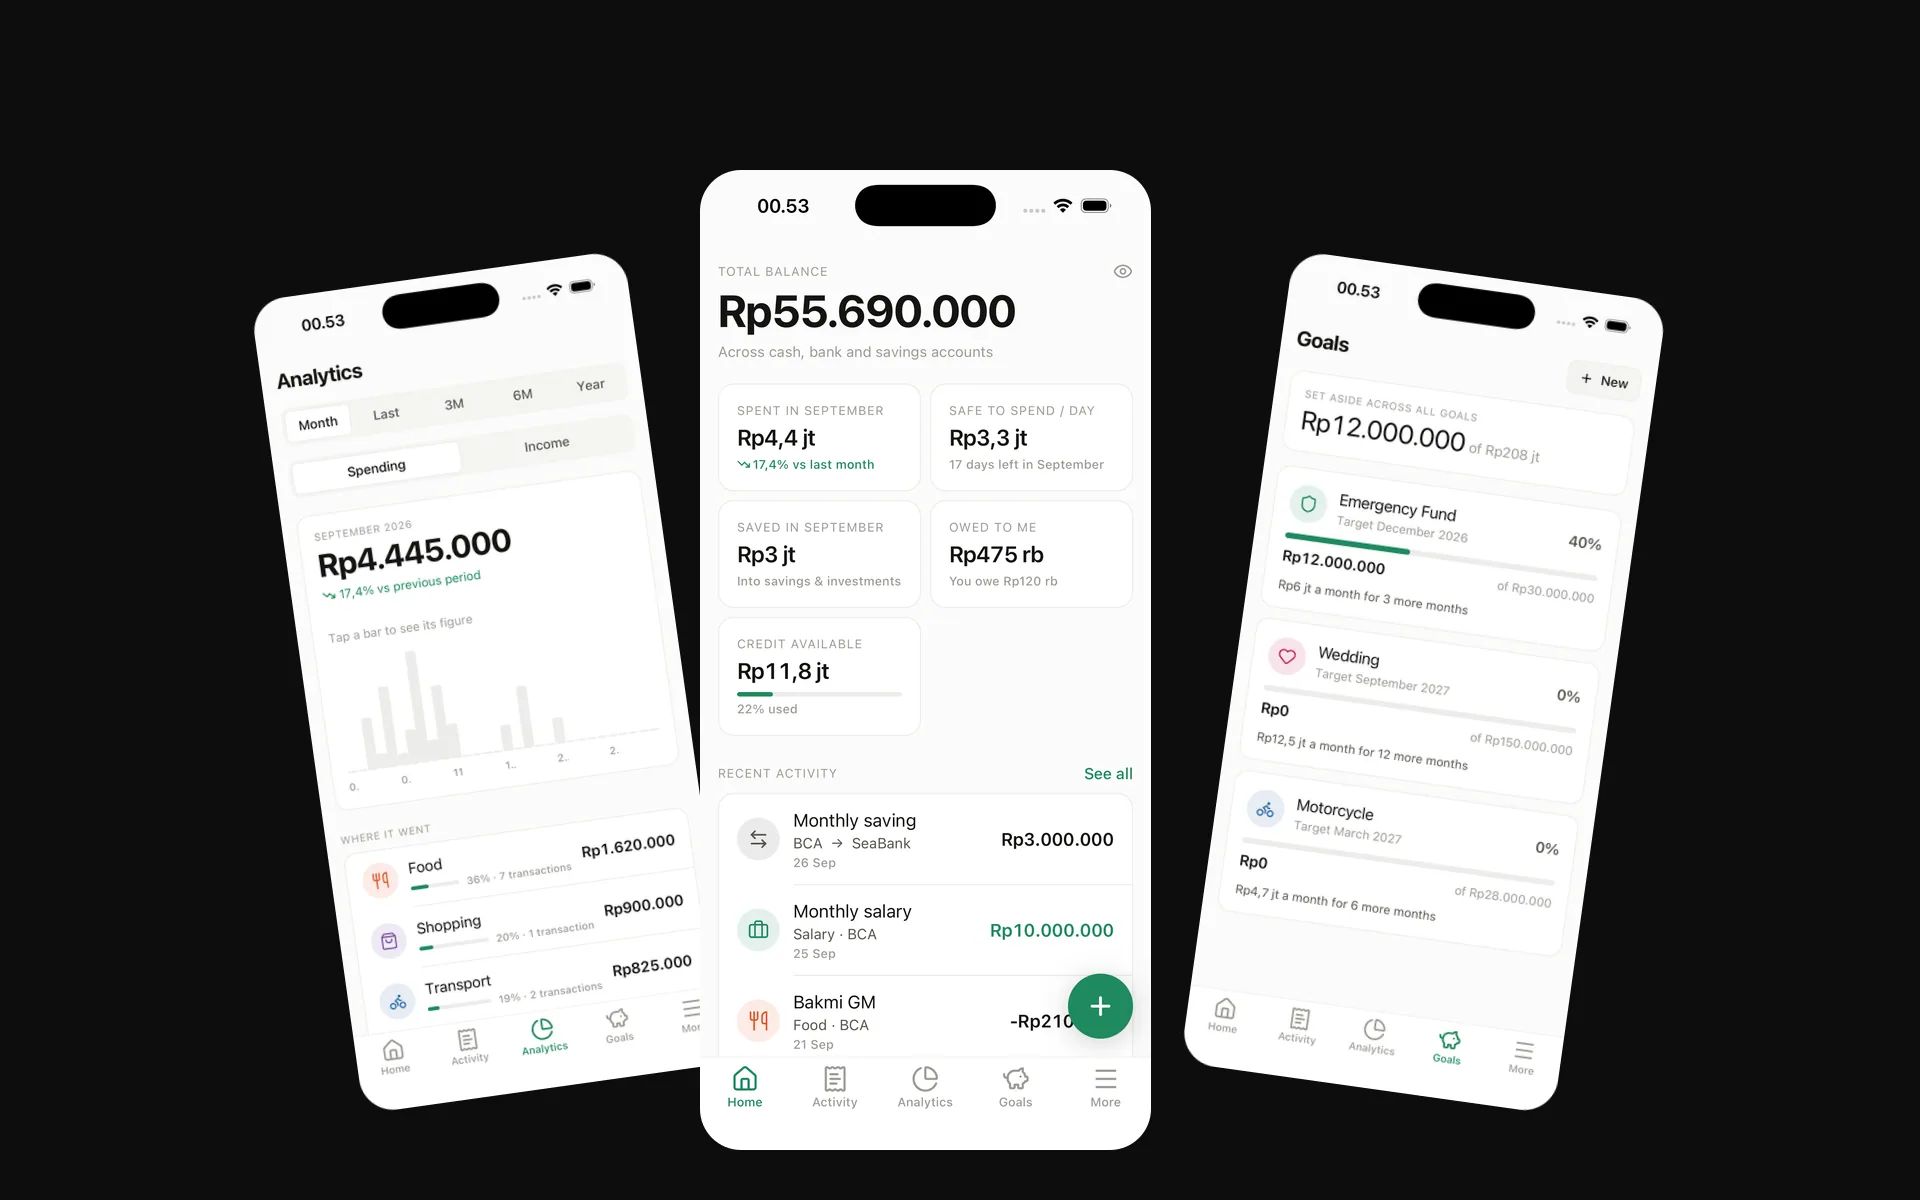
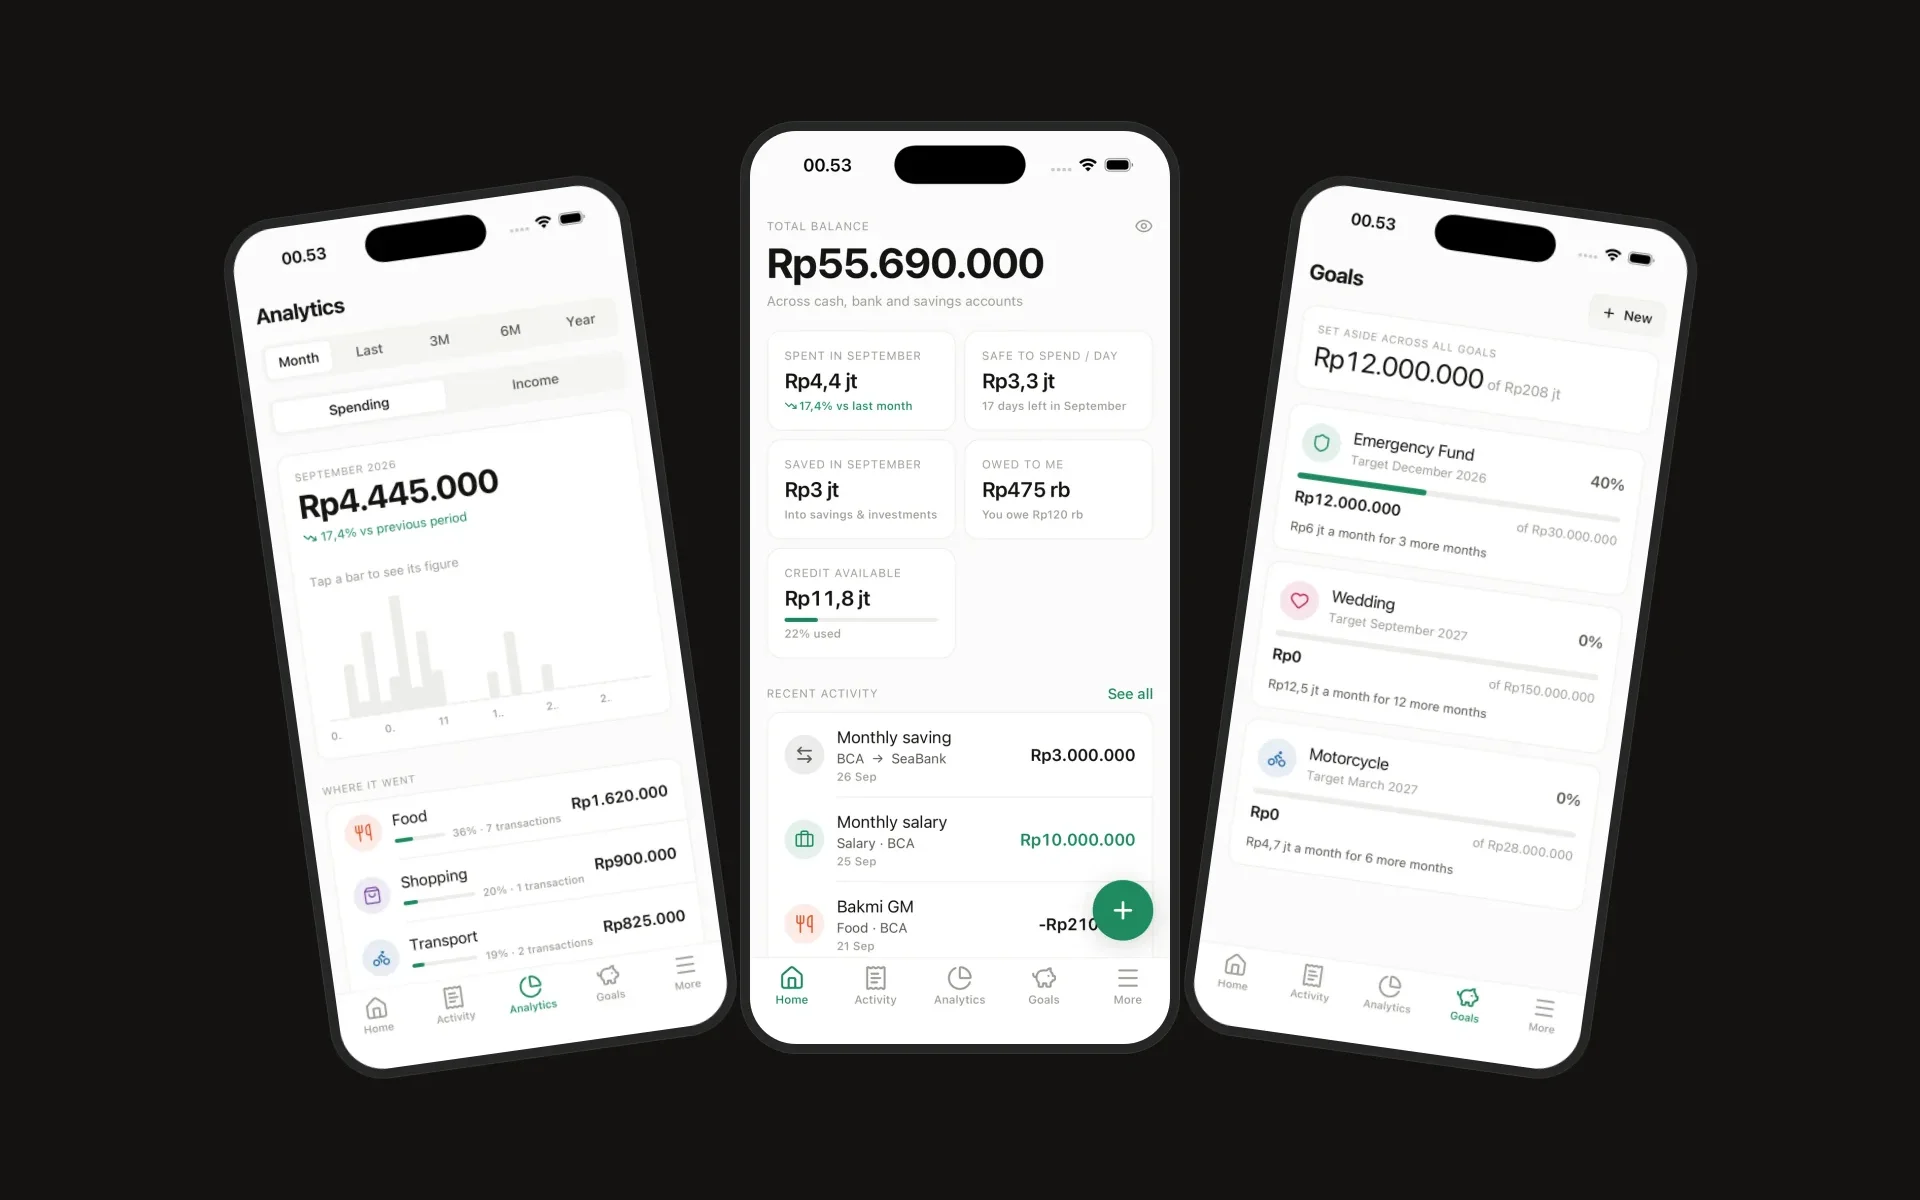
feat: add scripture feed case study and rebuild the neraca thumbnail

Changed region(s): [[0.0938, 0.0925, 0.9062, 0.9558], [0.75, 0.5858, 0.7812, 0.6167]]

diff --git a/constants/projects.tsx b/constants/projects.tsx
@@ -87,6 +87,20 @@ import pr8 from '@/public/projects/persekutuan-remaja/pr-8.webp'
 import pr9 from '@/public/projects/persekutuan-remaja/pr-9.webp'
 import prThumbnail from '@/public/projects/persekutuan-remaja/pr-thumbnail.webp'
 
+// Scripture Feed
+import scriptureFeed1 from '@/public/projects/scripture-feed/scripture-feed-1.webp'
+import scriptureFeed2 from '@/public/projects/scripture-feed/scripture-feed-2.webp'
+import scriptureFeed3 from '@/public/projects/scripture-feed/scripture-feed-3.webp'
+import scriptureFeed4 from '@/public/projects/scripture-feed/scripture-feed-4.webp'
+import scriptureFeed5 from '@/public/projects/scripture-feed/scripture-feed-5.webp'
+import scriptureFeed6 from '@/public/projects/scripture-feed/scripture-feed-6.webp'
+import scriptureFeed7 from '@/public/projects/scripture-feed/scripture-feed-7.webp'
+import scriptureFeed8 from '@/public/projects/scripture-feed/scripture-feed-8.webp'
+import scriptureFeed9 from '@/public/projects/scripture-feed/scripture-feed-9.webp'
+import scriptureFeed10 from '@/public/projects/scripture-feed/scripture-feed-10.webp'
+import scriptureFeed11 from '@/public/projects/scripture-feed/scripture-feed-11.webp'
+import scriptureFeedThumbnail from '@/public/projects/scripture-feed/scripture-feed-thumbnail.webp'
+
 import { Project } from '@/types/project'
 
 export const projects: Project[] = [
@@ -648,6 +662,142 @@ Worth being straight about: there is no test framework and no CI in this project
         content: `The commit history is a list of Sundays. Several messages are literally named for the service they were preparing.
 
 That is the part I would repeat. Nothing in this app was designed in the abstract and then tried out. Every feature exists because something went wrong in a room the week before, and the fix had to work by the following Sunday, in front of an audience, on a laptop with no internet.`,
+      },
+    ],
+  },
+  {
+    href: 'https://scripture-feed.vercel.app',
+    repo: '',
+    title: 'Scripture Feed',
+    category: 'personal',
+    description: `Scripture Feed is a Bible reader built on the swipe habit people already have. Open it and you are reading a passage straight away, every passage leads into its full chapter, plain-language notes explain what is going on when the text is hard to follow, and the feed ends instead of running forever.`,
+    thumbnail: scriptureFeedThumbnail,
+    mobileImages: [
+      scriptureFeed1,
+      scriptureFeed2,
+      scriptureFeed3,
+      scriptureFeed4,
+      scriptureFeed5,
+      scriptureFeed6,
+      scriptureFeed7,
+      scriptureFeed8,
+      scriptureFeed9,
+      scriptureFeed10,
+      scriptureFeed11,
+    ],
+    stack: ['Next.js', 'React 19', 'TypeScript', 'Tailwind CSS', 'PWA'],
+    slug: 'scripture-feed',
+    sections: [
+      {
+        id: 'the-habit-was-already-there',
+        title: 'The Habit Was Already There',
+        content: `For a long time I wanted to read the Bible and rarely did. I would open it with good intentions, read a few verses, and get lost. I did not always know who was speaking, what was going on, or why a passage mattered, and without that context it was easy to close it again.
+
+At the same time I had no trouble scrolling on my phone for an hour. The habit was already there. It just was not pointed at anything that fed me.
+
+So I built what I needed: something as easy to open as a feed, that puts Scripture on the screen before anything else, and that helps you understand what you are reading when it does not make sense yet. There is no sign up, no likes, no followers and no notifications. The app opens straight onto a passage.`,
+      },
+      {
+        id: 'a-feed-that-ends',
+        title: 'A Feed That Ends',
+        content: `Every feed I know is designed never to run out. This one runs out on purpose.
+
+There is no algorithm studying the reader. The feed is **118 passages picked by hand**, each chosen because it makes sense on its own, and the data file holds references only, never typed-in text. A theme on a card is only allowed to describe the verses actually shown.
+
+Each visit shuffles them with a small seeded random generator, so the order is reproducible for a given seed and the ordering logic can be tested and replaced without touching the UI. Passages that follow on from each other in the same chapter are grouped into runs before the shuffle, so a continuation never shows up without the part before it. A second pass swaps runs around so the same book does not appear twice in a row.
+
+Passages the reader has not finished yet always come first. "Finished" is not a scroll event: a card counts as read only after staying on screen for about 180ms per word, never less than four seconds, which is a reading pace rather than a skimming one. Nothing repeats until all 118 have been read, and the end of the feed says so when that happens.
+
+Every ten passages the feed stops for a pause card that says "Stay with one for a while" and offers the chapters the last few passages came from. After the last passage there is an end card instead of more content. The point of the app is to get someone into a whole chapter, and a feed that never ends would work against that.`,
+      },
+      {
+        id: 'every-passage-is-a-doorway',
+        title: 'Every Passage Is a Doorway',
+        content: `Every card has a **Read** button that opens the full chapter with the passage highlighted, so a verse always leads back into its context. All 1,189 chapters are statically generated at build time.
+
+The lightbulb on each card opens a sheet of notes written in plain language: what is happening around the passage, what it means, a short summary of the chapter, and an introduction to the book. The chapter page carries the same summary at the top and an "About the book" section.
+
+That is 118 passage notes, 1,189 chapter summaries and 66 book introductions, in English and in Indonesian. Writing them was the largest part of the project, so a script, \`check:content\`, fails if any feed passage is missing a note or any chapter is missing a summary in either language. The notes are framed as a starting point, not the final word, and the About page says so.`,
+      },
+      {
+        id: 'one-gesture-one-card',
+        title: 'One Gesture, One Card',
+        content: `The feed is CSS scroll snap underneath, but snap alone never quite felt right on every input, so each one is handled on its own.
+
+On a phone, a short, clear swipe moves to the next card even when native snapping would have bounced back. Moving between cards does not use the browser's smooth scroll, which eases in slowly. A small per-frame glide starts moving at once and settles gently, with snapping switched off while it runs so the two do not fight.
+
+A trackpad is the hard case. One flick produces a long tail of momentum events, and if every event counts, one gesture skips five cards. The feed locks after the first card move and ignores the tail. The difficulty is telling that tail apart from a real second flick. Momentum only fades and never reverses, but the browser can merge events so a single one arrives at double speed. So only a reversal, or a jump to three times the slowest recent event after the speed has faded, counts as a new gesture. A long passage that scrolls inside its own card keeps the wheel until its text is used up, and a few pixels of overflow are treated as padding, not more text.
+
+Passage text is sized to fit. Each card picks a size tier from an estimate of its line count, and then a loop scales the type down until it stops overflowing, with a floor of 16.5px so the text never becomes too small to read comfortably.`,
+      },
+      {
+        id: 'text-i-am-allowed-to-show',
+        title: 'Text I Am Allowed to Show',
+        content: `Bible translations are mostly copyrighted, and that shaped the architecture more than anything else.
+
+The World English Bible, the Berean Standard Bible and the King James Version are public domain, so they are bundled as JSON and built into the site. **Alkitab Yang Terbuka**, the Indonesian version, is licensed for non-commercial use only, which is written into the README so it cannot be forgotten.
+
+The **NIV and NIrV** come from API.Bible under a license with conditions. Their text is fetched per chapter on the server, cached for a day, and never built into the site, so a build never calls the API and the sitemap leaves those pages out. Every view is reported back through the publisher's tracking API, as the license requires, and Biblica's copyright notice appears in the reader, the version menu and the About page. When the feed pool is built from a licensed version, chapters are fetched six at a time so a cold cache does not burst past the rate limit.
+
+Versions I cannot show at all, like the ESV, NLT, NKJV and the Indonesian TB, open the same passage on YouVersion instead.
+
+The WEB source keeps its paragraph and poetry structure, so every other bundled version is poured into that layout verse by verse. Any verse that does not fit the structure is slotted in after its nearest neighbour. And only one file, \`bible-source.ts\`, is allowed to read Bible text at all, so the feed, the reader and search never know where the words come from.`,
+      },
+      {
+        id: 'two-languages',
+        title: 'Two Languages, Following the Version',
+        content: `The app is in English and Indonesian, and the language always follows the chosen Bible version. Pick the AYT and the whole interface switches to Indonesian, including book names in references. Pick an English version and it switches back. The language and the version can never disagree.
+
+The version choice lives on the device, but server pages need to know the language too, so it is mirrored into a single cookie. That keeps the feed and every chapter page statically generated instead of rendering per request.
+
+Search had to learn a bit of Indonesian grammar. Indonesian builds words with prefixes, and the me- and pe- prefixes swallow the first letter of the root: "kasih" becomes "mengasihi", "tolong" becomes "menolong". A plain substring search for "kasih" misses half the verses that talk about love, so for Indonesian versions each search term also matches its prefixed forms. Search also reads references typed the way people actually type them, like "jn 3 16", "Rom" or "Yohanes 3:16", and opens the chapter directly.`,
+      },
+      {
+        id: 'screenshots',
+        title: 'Screenshots',
+        content: `The welcome dialog, a passage in the feed, the notes sheet, the version menu, a pause card after ten passages, a chapter with the passage highlighted, search, a book page with a summary of every chapter, the same passage in Indonesian with its notes, and dark mode.`,
+        images: [
+          scriptureFeed1,
+          scriptureFeed2,
+          scriptureFeed3,
+          scriptureFeed4,
+          scriptureFeed5,
+          scriptureFeed6,
+          scriptureFeed7,
+          scriptureFeed8,
+          scriptureFeed9,
+          scriptureFeed10,
+          scriptureFeed11,
+        ],
+        imageLayout: 'mobile',
+      },
+      {
+        id: 'an-app-without-a-store',
+        title: 'An App Without a Store',
+        content: `Scripture Feed is a Progressive Web App rather than a native one. A page walks people through adding it to the home screen on iPhone and Android, with a one-tap install button where the browser supports it, and once installed it opens full screen with long-press shortcuts to search, saved passages and the book list.
+
+The service worker is network first for pages, so every deploy shows up immediately, while keeping recent pages for offline reading. Build assets are cache first.
+
+There are no accounts. Saved passages, highlights, reading progress and the chosen version all live in the browser, behind a small storage layer with an in-memory fallback for private browsing, where storage can throw. Analytics are anonymous and cookie-free, and the About page says exactly what is counted.
+
+Motion is a written rule in the project: anything that appears, disappears or changes state animates in and out, including dialogs, sheets, toasts and removed list items, and bottom sheets can be dragged down to close.`,
+      },
+      {
+        id: 'tech-stack',
+        title: 'Tech Stack',
+        content: `- **Next.js 16 App Router** - every chapter prerendered, with licensed versions rendered on request and cached
+- **React 19 + Tailwind v4** - no component library; the dialogs, sheets and segmented controls are hand-built
+- **API.Bible** - NIV and NIrV text under license, fetched on the server only
+- **A service worker and web manifest** - installable, with offline reading
+
+Worth being straight about: there is no test framework in this project. What it has instead are two build checks, one that fails if any note or summary is missing in either language, and one that fails if an em or en dash slips into the copy.`,
+      },
+      {
+        id: 'looking-ahead',
+        title: 'Looking Ahead',
+        content: `The whole app went from an empty Next.js project to a bilingual, installable reader with licensed translations in one week.
+
+Two seams were left open on purpose. The feed order lives in one file and is deterministic, so it can be replaced without touching the interface, and the Bible text lives behind one file that can be pointed at an API or a database later. Those are the two places the app is built to grow.`,
       },
     ],
   },
